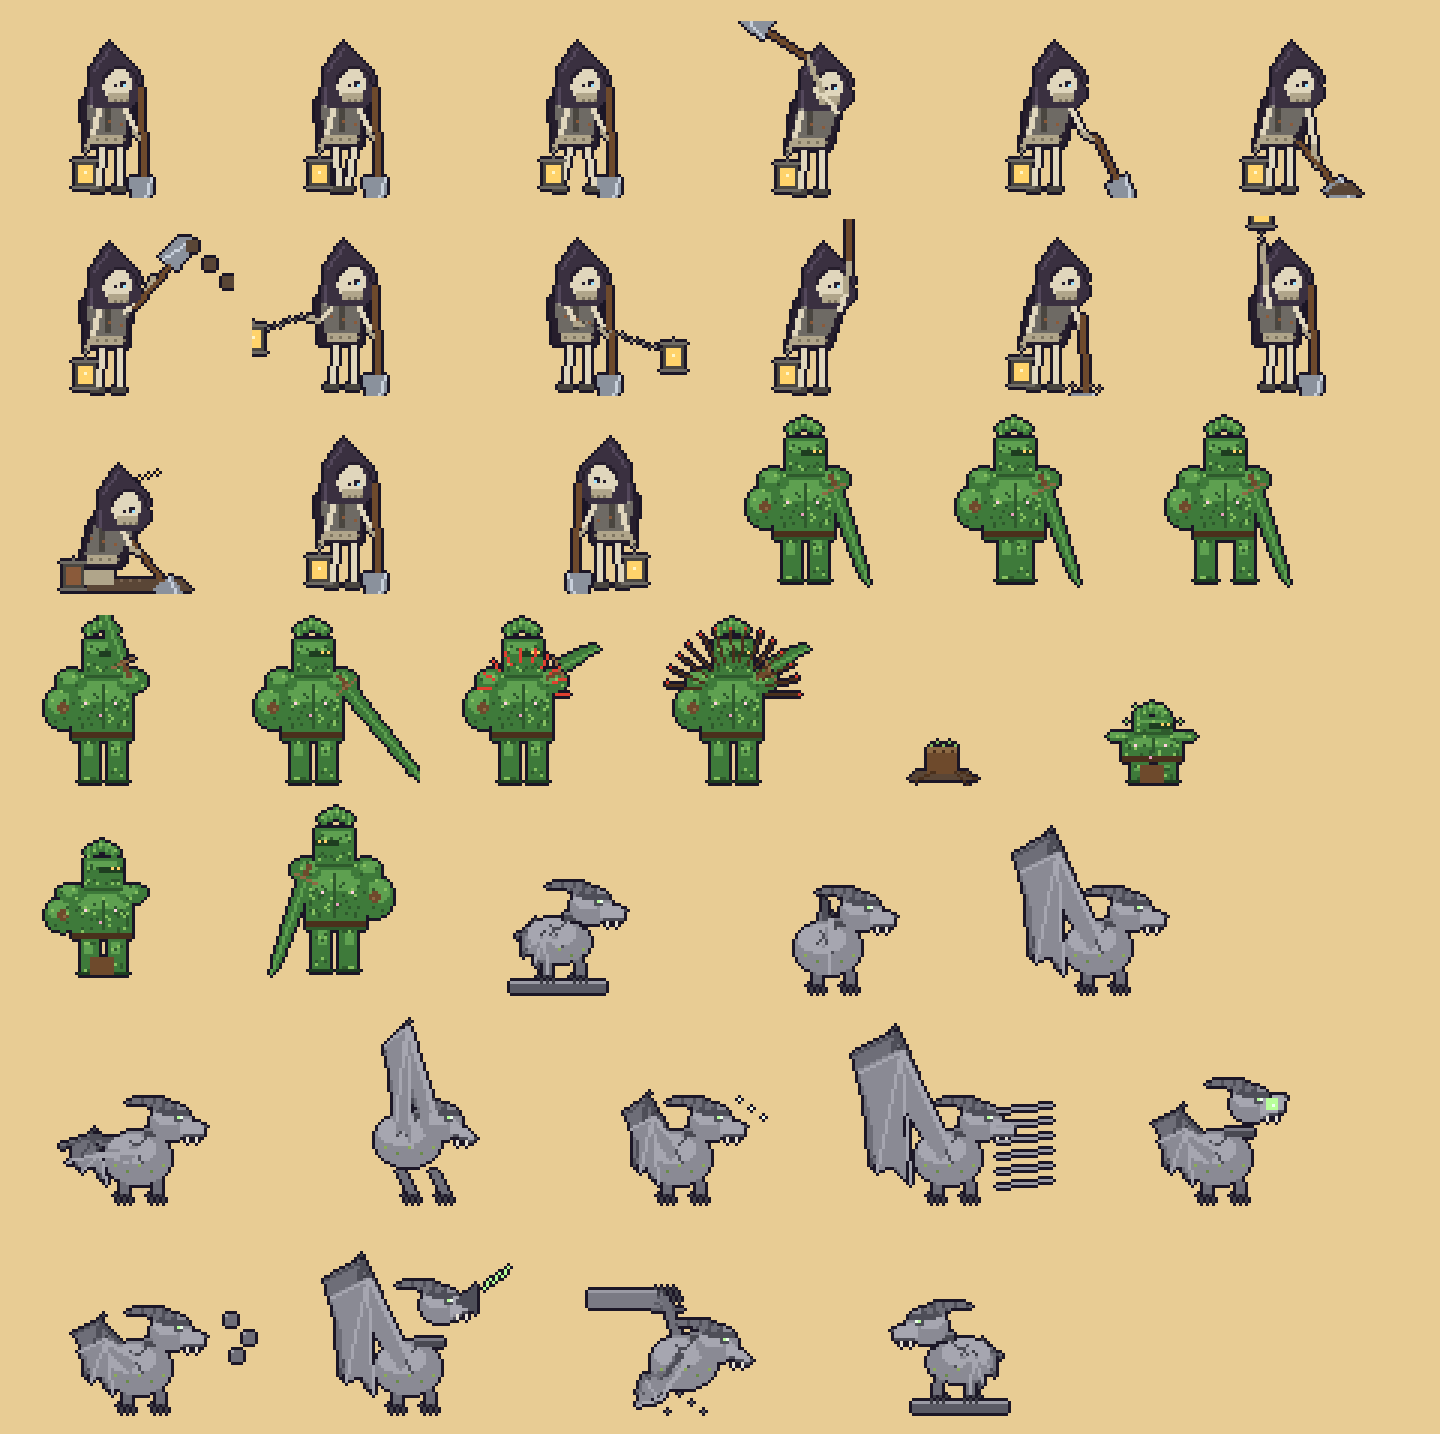
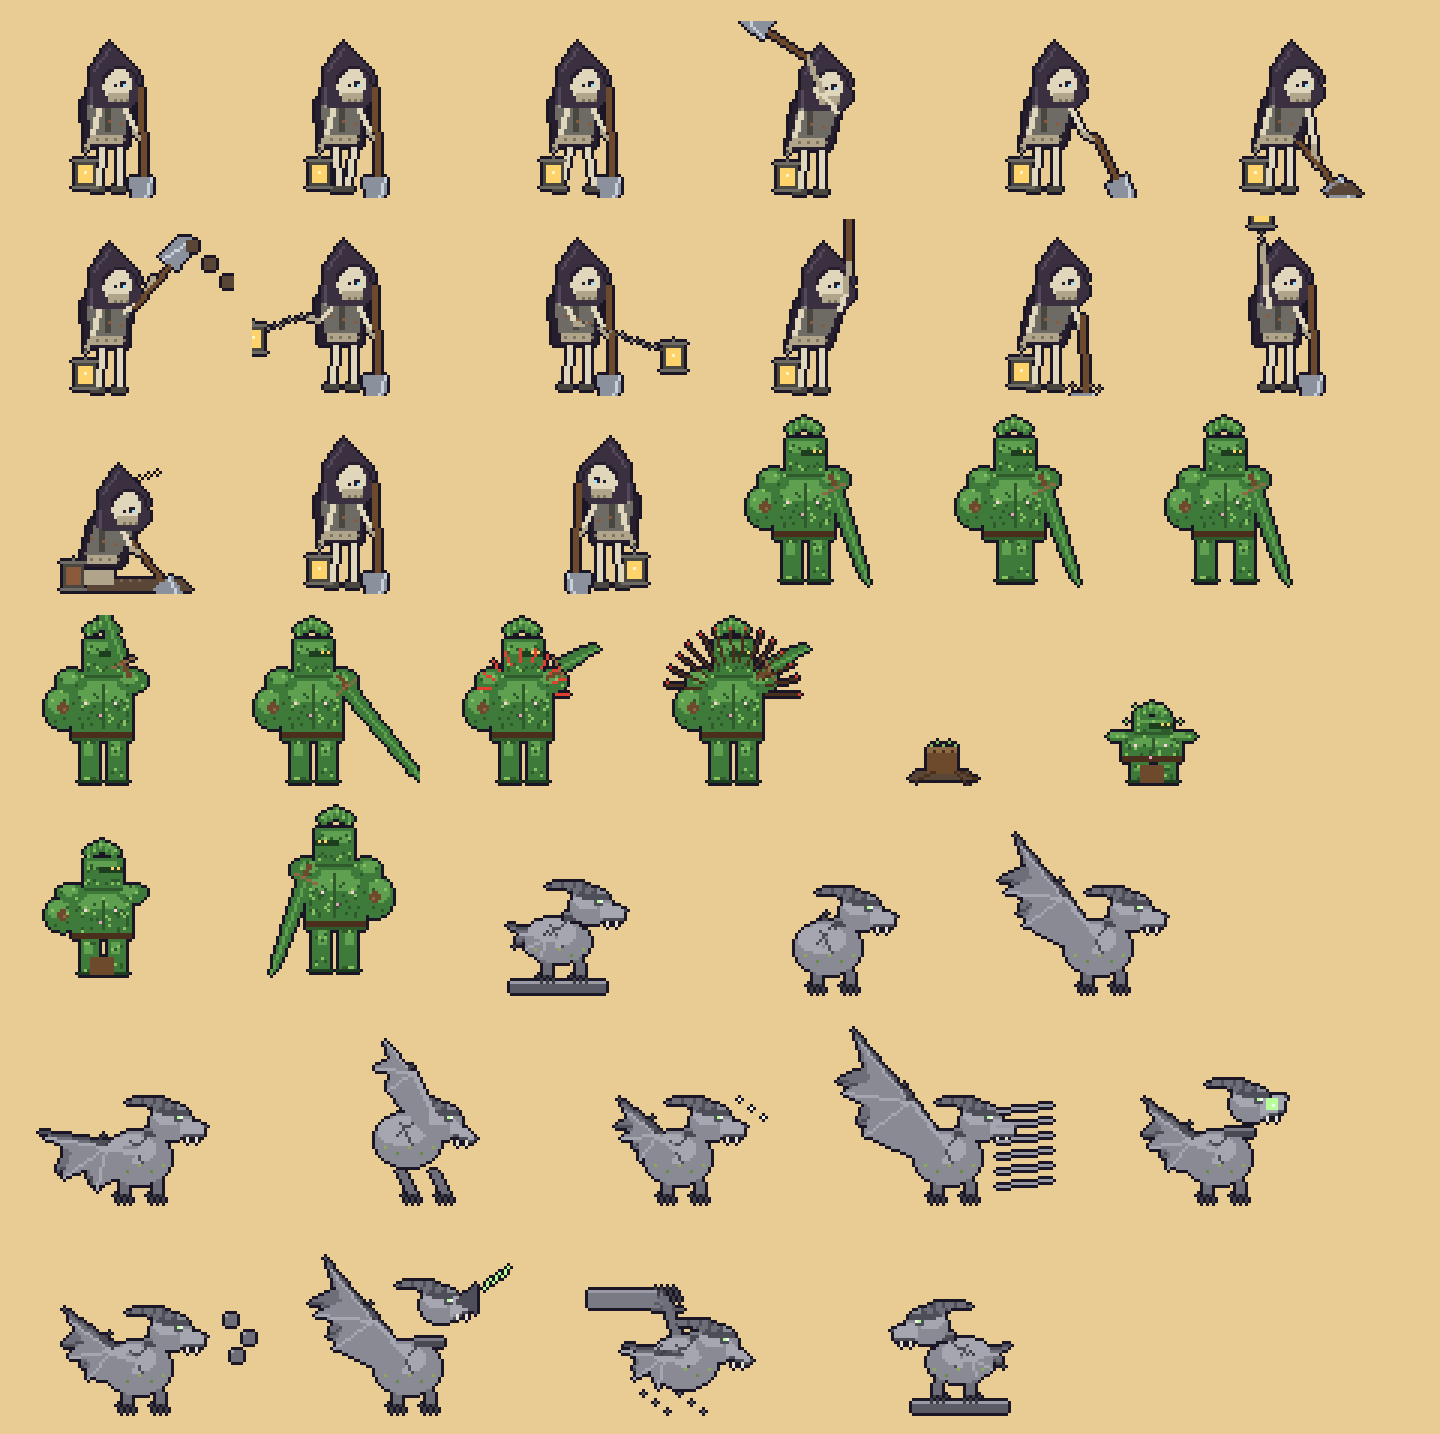
THE GATE GARGOYLE'S WINGS: A SAIL, NOT A SLAB
The raised-wing frames ran the fingers from the wrist straight down to the body, so a raised wing
stood as a column. The wrist now goes up and back, three fingers fan behind it, and the membrane
is scalloped toward the wrist. caravan-mechanics.md lists what else the branch now holds.

diff --git a/src/redraw/queue_bosses.js b/src/redraw/queue_bosses.js
@@ -136,13 +136,13 @@ export function bakeHedgeWarden() {
 const GG = { s: '#8a8a94', S: '#a6a6b0', sd: '#6e6e78', sD: '#4e4e58', moss: '#6a8a4a', mossL: '#8aaa5a', iron: '#4a4a52', ironL: '#7a7a84', witch: '#b8ff9a', witchL: '#effff0', claw: '#3e3e46', slab: '#7a7a84', slabL: '#9a9aa4', slabD: '#5a5a64' };
 export function bakeGateGargoyle() {
   const W = 84, H = 64, cx = 40;
-  /* A BAT'S WING IN STONE: the arm up and back from the shoulder to the wrist, three fingers fanning down from it, the
-     membrane between them. `lift` raises the wrist; `spread` is how far back it reaches. */
-  const wing = (g, x, y, lift, spread, far = false) => { const wx = x - spread * 0.55, wy = y - lift - 8, col = far ? GG.sd : GG.s, bone = far ? GG.sD : GG.S;
-    const tips = [[x - spread, wy + 4 + lift * 0.1], [x - spread * 0.8, y + 6], [x - spread * 0.45, y + 10]];
-    let prev = [x - 2, y + 4];
-    for (const t of tips) { fillPoly(g, [[wx, wy], prev, [(prev[0] + t[0]) / 2 + 1, (prev[1] + t[1]) / 2 - 3], t], col); prev = t; }
-    fillPoly(g, [[x, y - 2], [wx, wy], [x - 2, y + 4]], col);
+  /* A BAT'S WING IN STONE: the arm up from the shoulder to the WRIST, three fingers FANNING from the wrist - up-back, back,
+     down-back - and the membrane between them scalloped toward the wrist. (The first pass ran the fingers from the wrist down to
+     the body, so a raised wing was a tall slab.) `lift` raises the wrist; `spread` is how long the fingers are. */
+  const wing = (g, x, y, lift, spread, far = false) => { const wx = x - spread * 0.45, wy = y - Math.max(-4, lift) * 0.5 - 4, col = far ? GG.sd : GG.s, bone = far ? GG.sD : GG.S;   /* the wrist goes up AND BACK */
+    const th0 = lift > 12 ? -0.72 * Math.PI : lift < 0 ? -0.95 * Math.PI : -0.8 * Math.PI, tips = [0, 1, 2].map(k => { const th = th0 - k * 0.24 * Math.PI, len = spread * (0.85 - k * 0.12); return [wx + Math.cos(th) * len, wy + Math.sin(th) * len]; });   /* the fingers sweep behind: a sail, not a column */
+    const pull = (a, b) => [(a[0] + b[0]) / 2 + (wx - (a[0] + b[0]) / 2) * 0.35, (a[1] + b[1]) / 2 + (wy - (a[1] + b[1]) / 2) * 0.35];   // the scallop, drawn in toward the wrist
+    fillPoly(g, [[x, y - 2], [wx, wy], tips[0], pull(tips[0], tips[1]), tips[1], pull(tips[1], tips[2]), tips[2], [x - 3, y + 6]], col);
     thick(g, x, y - 1, wx, wy, bone, 2); for (const t of tips) line(g, wx, wy, t[0], t[1], bone); px(g, wx, wy - 1, GG.claw); px(g, wx + 1, wy - 2, GG.claw); };
   const body = (g, x, y, crouch = 0, head = 0) => {
     ellipse(g, x, y, 11, 9 - crouch, GG.s); ellipse(g, x - 2, y - 3, 8, 5, GG.S);                                        // the hunched torso

diff --git a/docs/caravan-mechanics.md b/docs/caravan-mechanics.md
@@ -52,8 +52,8 @@ preview `docs/desert-art.png` (`node tools/desert-art.mjs`).
   WORM (+ its lunge body). Every tell and the STUCK opening pose has its own frame.
 - `src/redraw/queue_bosses.js` → `node tools/queue-bosses.mjs` → `docs/queue-bosses.png`: THE GRAVE WARDEN (Burial rework),
   THE HEDGE WARDEN and THE GATE GARGOYLE (Witchlight Stair), from their briefs. Frames for every attack in the brief and each
-  boss's opening pose (kneeling in a grave; the stump + regrowth; hanging from a broken slab). Known: the gargoyle's
-  raised-wing frames (3, 6, 9) read as slabs and want a second pass in the Witchlight batch.
+  boss's opening pose (kneeling in a grave; the stump + regrowth; hanging from a broken slab). The gargoyle's wings
+  were redrawn as fanned, swept-back bat wings (they read as slabs).
 - `tools/node-canvas.mjs` is the shim that makes this possible: enough of a 2D canvas for px.js-style bakers (it throws on
   paths/gradients/text instead of drawing them wrong). Checked against the game's own turtle, eel and heron bakers.
 
@@ -86,3 +86,13 @@ checks it (all passing); `node tools/caravan-map.mjs` draws it (`docs/caravan-dr
 - SCORPION alternates CLAW (! 0.5 s) and STING (X 0.75 s, over its back); VULTURE marks your spot with its shadow as its eye goes red
   and dives there 0.8 s later, then lands open; SAND GOBLIN waits as a mound, rises (the tell), cuts twice, burrows, comes up ahead.
   A fighter answering each tell in 0.25 s takes 0 from all three; one ignoring them takes 5-15.
+
+## THE REST OF THE ARC, AHEAD OF ITS BATCHES (all on `claude/slopes`, none wired in)
+- LIGHT (`src/light.js`, `node tools/light.mjs`): beams, mirrors, sun-doors, the dark, burning the dead, the Sun Temple's moving sun,
+  and `solve()` - the fewest mirror turns that open a room, or null when it cannot be opened.
+- THE SKELETON KING (`src/skeleton-king.js`, `node tools/skeleton-king.mjs`): the world boss on the light. His armour (60% until a
+  beam burns him, then 200%) is a design choice to confirm with Daniel.
+- LEVEL DRAFTS (`node tools/draft-level.mjs <name>`, `node tools/draft-map.mjs <name>`): sunken-caravan, well-town, red-gorge, all
+  passing. Each draft names its own rule check (the Well Town: the mud walls are load-bearing and the water budget holds; the Red
+  Gorge: every place in the flood channel is a short walk from dry rock, and the climb must cross it).
+- THE SUN PRIEST (`docs/sun-priest-design.md`, concept frames `docs/sun-priest-concept.png`).
